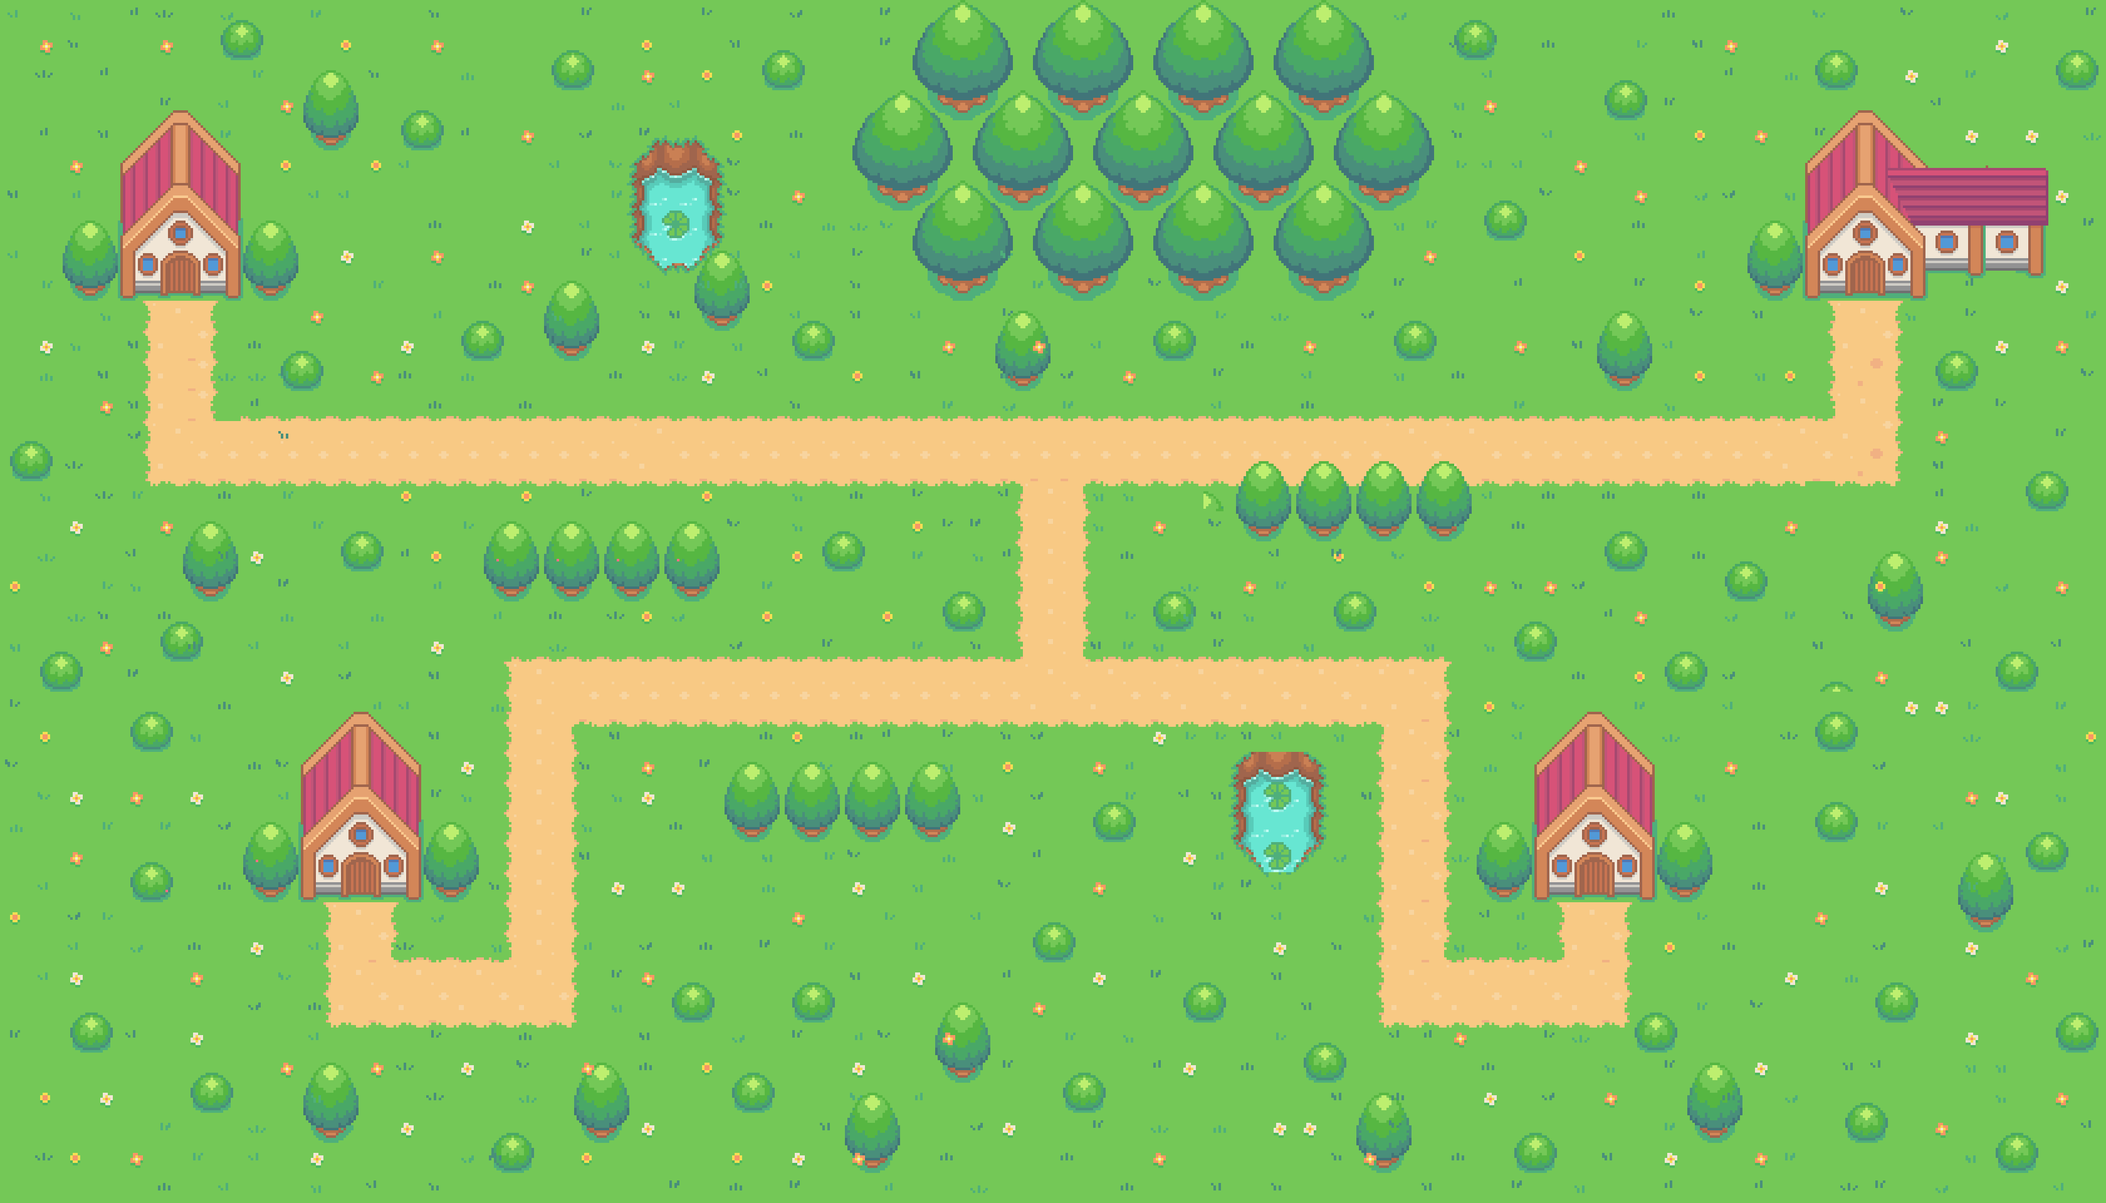
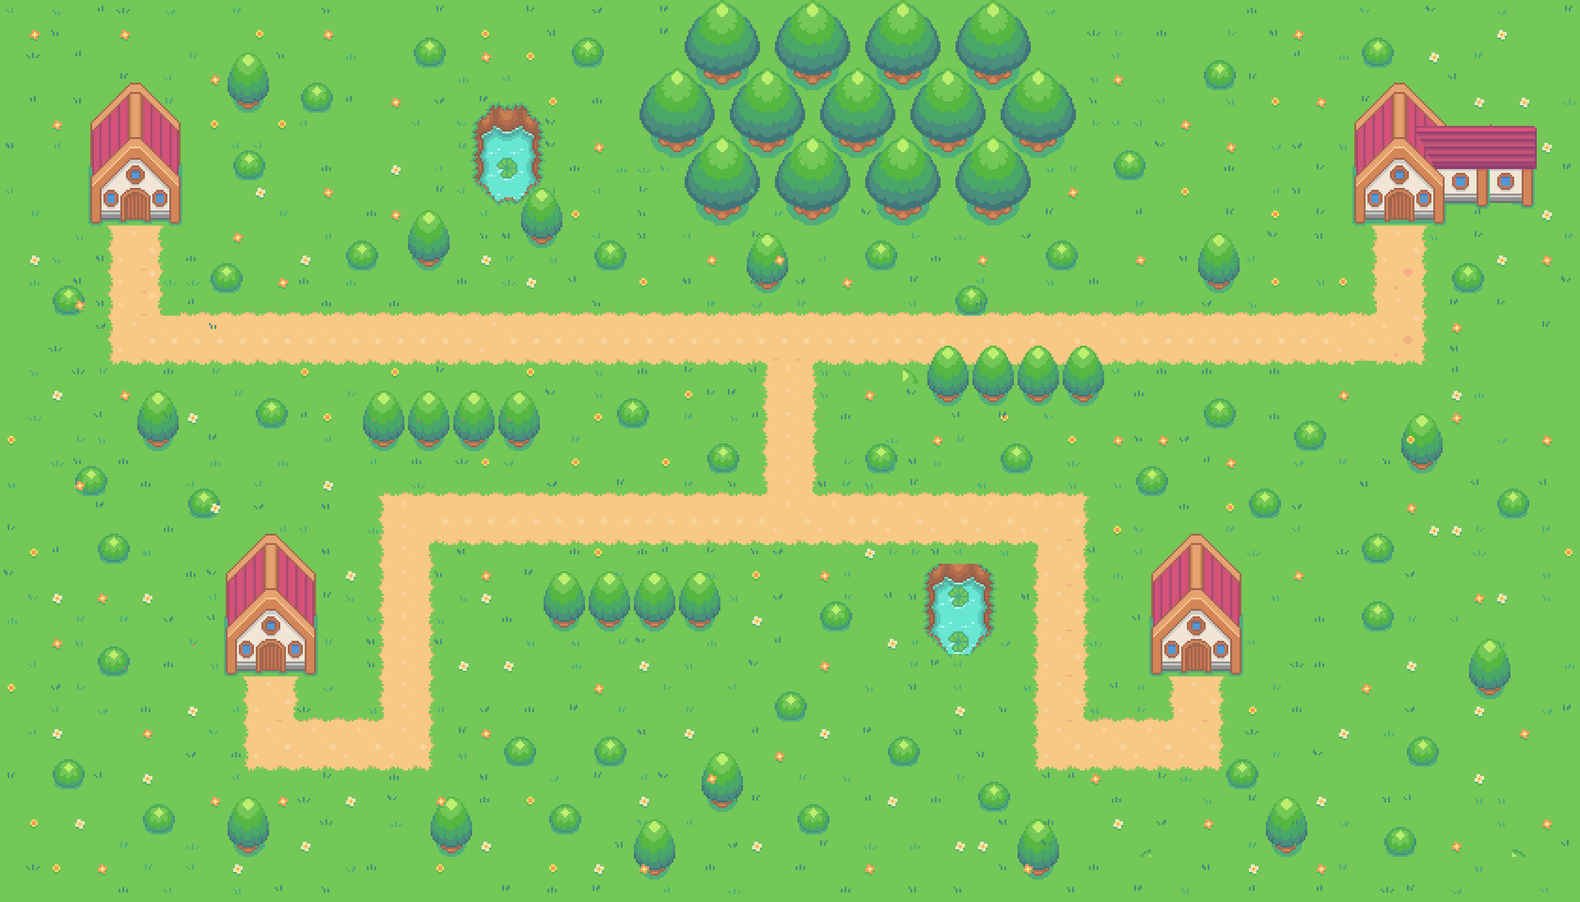
map fixes
fixed starting character position, zoomed out the map more and increased character speed and added some foreground physics

diff --git a/Data/collisions.js b/Data/collisions.js
@@ -1,40 +1,40 @@
-const collisions = [1025, 1025, 1025, 1025, 1025, 1025, 1025, 1025, 1025, 1025, 1025, 1025, 1025, 1025, 1025, 1025, 1025, 1025, 1025, 1025, 1025, 1025, 1025, 1025, 1025, 1025, 1025, 1025, 1025, 1025, 1025, 1025, 0, 0, 0, 0, 0, 0, 0, 0, 0, 0, 0, 0, 0, 1025, 1025, 1025, 1025, 1025, 1025, 1025, 1025, 1025, 1025, 1025, 1025, 1025, 1025, 1025, 1025, 1025, 1025, 1025, 1025, 1025, 1025, 1025, 1025, 1025,
-    1025, 0, 0, 0, 0, 0, 0, 0, 0, 0, 1025, 1025, 0, 0, 0, 0, 0, 0, 0, 0, 0, 0, 0, 0, 0, 0, 0, 0, 0, 1025, 0, 0, 0, 0, 0, 0, 0, 0, 0, 0, 0, 0, 0, 0, 0, 0, 1025, 0, 0, 0, 0, 0, 0, 0, 0, 0, 0, 0, 0, 0, 0, 0, 0, 0, 0, 0, 0, 0, 0, 1025,
-    1025, 0, 0, 0, 0, 1025, 1025, 0, 1025, 1025, 0, 0, 1025, 0, 0, 0, 0, 0, 0, 0, 0, 0, 0, 0, 0, 0, 0, 0, 0, 1025, 0, 0, 0, 0, 0, 0, 0, 0, 0, 0, 0, 0, 0, 0, 0, 0, 1025, 0, 0, 0, 0, 0, 0, 0, 0, 0, 0, 0, 0, 0, 0, 1025, 1025, 0, 0, 0, 0, 0, 0, 1025,
-    1025, 0, 0, 0, 1025, 0, 0, 1025, 0, 0, 0, 0, 1025, 0, 0, 0, 0, 0, 0, 0, 1025, 1025, 1025, 1025, 1025, 0, 0, 0, 1025, 0, 0, 0, 0, 0, 0, 0, 0, 0, 0, 0, 0, 0, 0, 0, 0, 0, 0, 1025, 0, 0, 0, 0, 0, 0, 0, 0, 0, 0, 0, 0, 1025, 0, 0, 1025, 0, 0, 0, 0, 0, 1025,
-    1025, 0, 0, 1025, 0, 0, 0, 0, 1025, 0, 0, 0, 1025, 0, 0, 0, 0, 0, 0, 1025, 0, 0, 0, 0, 0, 1025, 0, 1025, 0, 0, 0, 0, 0, 0, 0, 0, 0, 0, 0, 0, 0, 0, 0, 0, 0, 0, 0, 0, 1025, 0, 0, 0, 0, 0, 0, 0, 0, 0, 0, 1025, 0, 0, 0, 0, 1025, 1025, 1025, 1025, 0, 1025,
-    1025, 0, 0, 1025, 0, 0, 0, 0, 1025, 1025, 1025, 1025, 0, 0, 0, 0, 0, 0, 0, 1025, 0, 0, 0, 0, 0, 1025, 0, 1025, 0, 0, 0, 0, 0, 0, 0, 0, 0, 0, 0, 0, 0, 0, 0, 0, 0, 0, 0, 0, 1025, 0, 0, 0, 0, 0, 0, 0, 0, 0, 0, 1025, 0, 0, 0, 0, 0, 0, 0, 0, 1025, 1025,
-    1025, 0, 1025, 0, 0, 0, 0, 0, 0, 0, 1025, 0, 0, 0, 0, 0, 0, 0, 0, 1025, 0, 0, 0, 0, 0, 1025, 0, 1025, 0, 0, 0, 0, 0, 0, 0, 0, 0, 0, 0, 0, 0, 0, 0, 0, 0, 0, 0, 1025, 0, 0, 0, 0, 0, 0, 0, 0, 0, 0, 1025, 0, 0, 0, 0, 0, 0, 0, 0, 0, 0, 1025,
-    1025, 1025, 0, 0, 0, 0, 0, 0, 0, 0, 1025, 0, 0, 0, 0, 0, 0, 0, 0, 1025, 0, 0, 0, 0, 0, 1025, 0, 0, 1025, 0, 0, 0, 0, 0, 0, 0, 0, 0, 0, 0, 0, 0, 0, 0, 0, 0, 1025, 0, 0, 0, 0, 0, 0, 0, 0, 0, 0, 1025, 0, 0, 0, 0, 0, 0, 0, 0, 0, 0, 0, 1025,
-    1025, 1025, 0, 0, 0, 0, 0, 0, 0, 0, 1025, 0, 0, 0, 0, 0, 0, 0, 1025, 1025, 0, 0, 0, 0, 0, 1025, 0, 0, 0, 1025, 0, 0, 0, 0, 0, 0, 0, 0, 0, 0, 0, 0, 0, 0, 0, 0, 1025, 0, 0, 0, 0, 0, 0, 0, 0, 0, 0, 1025, 0, 0, 0, 0, 0, 0, 0, 0, 0, 0, 0, 1025,
-    1025, 1025, 0, 0, 0, 0, 0, 0, 0, 0, 1025, 0, 0, 0, 0, 0, 0, 1025, 0, 1025, 0, 0, 0, 0, 0, 1025, 0, 0, 0, 0, 1025, 0, 0, 0, 0, 0, 0, 0, 0, 0, 0, 0, 0, 0, 0, 1025, 0, 0, 0, 0, 0, 0, 0, 1025, 1025, 0, 0, 1025, 0, 0, 0, 0, 0, 0, 1025, 1025, 1025, 1025, 1025, 1025,
-    1025, 0, 1025, 1025, 0, 0, 0, 1025, 1025, 1025, 1025, 0, 0, 0, 0, 0, 0, 1025, 0, 0, 1025, 1025, 1025, 1025, 1025, 0, 0, 0, 0, 0, 1025, 1025, 1025, 1025, 1025, 1025, 1025, 1025, 1025, 1025, 1025, 1025, 1025, 1025, 1025, 0, 0, 0, 0, 0, 0, 0, 1025, 0, 0, 1025, 0, 0, 1025, 1025, 0, 0, 0, 1025, 0, 0, 0, 0, 0, 1025,
-    1025, 0, 0, 0, 0, 0, 0, 0, 0, 0, 0, 0, 0, 0, 0, 0, 0, 1025, 0, 0, 1025, 0, 0, 0, 0, 0, 0, 0, 0, 0, 0, 0, 1025, 0, 0, 1025, 0, 0, 0, 0, 0, 0, 0, 0, 0, 0, 0, 0, 0, 0, 0, 0, 1025, 0, 0, 1025, 0, 0, 0, 0, 0, 0, 0, 0, 0, 0, 0, 0, 0, 1025,
-    1025, 0, 0, 0, 0, 0, 0, 0, 0, 0, 0, 0, 0, 0, 0, 0, 0, 0, 1025, 1025, 0, 0, 0, 0, 0, 0, 0, 0, 0, 0, 0, 0, 1025, 0, 0, 1025, 0, 0, 0, 0, 0, 0, 0, 0, 0, 0, 0, 0, 0, 0, 0, 0, 1025, 0, 0, 1025, 0, 0, 0, 0, 0, 0, 0, 0, 0, 0, 0, 0, 0, 1025,
+const collisions = [1025, 1025, 1025, 1025, 1025, 1025, 1025, 1025, 1025, 1025, 1025, 1025, 1025, 1025, 1025, 1025, 1025, 1025, 1025, 1025, 1025, 1025, 1025, 1025, 1025, 1025, 1025, 1025, 1025, 1025, 1025, 0, 0, 0, 0, 0, 0, 0, 0, 0, 0, 0, 0, 0, 0, 1025, 1025, 1025, 1025, 1025, 1025, 1025, 1025, 1025, 1025, 1025, 1025, 1025, 1025, 1025, 1025, 1025, 1025, 1025, 1025, 1025, 1025, 1025, 1025, 1025,
+    1025, 0, 0, 0, 0, 0, 0, 0, 0, 0, 0, 0, 0, 0, 0, 0, 0, 0, 0, 0, 0, 0, 0, 0, 0, 0, 0, 0, 0, 0, 1025, 0, 0, 0, 0, 0, 0, 0, 0, 0, 0, 0, 0, 0, 0, 1025, 0, 0, 0, 0, 0, 0, 0, 0, 0, 0, 0, 0, 0, 0, 0, 0, 0, 0, 0, 0, 0, 0, 0, 1025,
+    1025, 0, 0, 0, 0, 0, 0, 0, 0, 0, 0, 0, 0, 0, 0, 0, 0, 0, 0, 0, 0, 0, 0, 0, 0, 0, 0, 0, 0, 0, 1025, 0, 0, 0, 0, 0, 0, 0, 0, 0, 0, 0, 0, 0, 0, 1025, 0, 0, 0, 0, 0, 0, 0, 0, 0, 0, 0, 0, 0, 0, 0, 0, 0, 0, 0, 0, 0, 0, 0, 1025,
+    1025, 0, 0, 0, 0, 0, 0, 0, 0, 0, 0, 0, 0, 0, 0, 0, 0, 0, 0, 0, 0, 0, 0, 0, 0, 0, 0, 0, 0, 1025, 0, 0, 0, 0, 0, 0, 0, 0, 0, 0, 0, 0, 0, 0, 0, 0, 1025, 0, 0, 0, 0, 0, 0, 0, 0, 0, 0, 0, 0, 0, 0, 0, 0, 0, 0, 0, 0, 0, 0, 1025,
+    1025, 0, 0, 0, 0, 0, 0, 0, 0, 0, 1025, 1025, 0, 0, 0, 0, 0, 0, 0, 0, 0, 0, 0, 0, 0, 0, 0, 0, 1025, 0, 0, 0, 0, 0, 0, 0, 0, 0, 0, 0, 0, 0, 0, 0, 0, 0, 0, 1025, 0, 0, 0, 0, 0, 0, 0, 0, 0, 0, 0, 0, 0, 0, 0, 0, 0, 0, 0, 0, 0, 1025,
+    1025, 0, 0, 0, 1025, 1025, 1025, 1025, 0, 0, 0, 0, 0, 0, 0, 0, 0, 0, 0, 0, 0, 1025, 1025, 1025, 0, 0, 0, 0, 1025, 0, 0, 0, 0, 0, 0, 0, 0, 0, 0, 0, 0, 0, 0, 0, 0, 0, 0, 1025, 0, 0, 0, 0, 0, 0, 0, 0, 0, 0, 0, 0, 1025, 1025, 1025, 1025, 1025, 1025, 1025, 1025, 0, 1025,
+    1025, 0, 0, 0, 1025, 0, 0, 1025, 0, 0, 0, 0, 0, 0, 0, 0, 0, 0, 0, 0, 0, 1025, 0, 1025, 0, 0, 0, 0, 1025, 0, 0, 0, 0, 0, 0, 0, 0, 0, 0, 0, 0, 0, 0, 0, 0, 0, 1025, 0, 0, 0, 0, 0, 0, 0, 0, 0, 0, 0, 0, 0, 1025, 0, 0, 0, 0, 0, 0, 1025, 0, 1025,
+    1025, 0, 0, 0, 1025, 0, 0, 1025, 0, 0, 0, 0, 0, 0, 0, 0, 0, 0, 0, 0, 0, 1025, 0, 1025, 0, 0, 0, 0, 0, 1025, 0, 0, 0, 0, 0, 0, 0, 0, 0, 0, 0, 0, 0, 0, 0, 1025, 0, 0, 0, 0, 0, 0, 0, 0, 0, 0, 0, 0, 0, 0, 1025, 0, 0, 0, 0, 0, 0, 1025, 0, 1025,
+    1025, 0, 0, 0, 1025, 0, 0, 1025, 0, 0, 0, 0, 0, 0, 0, 0, 0, 0, 0, 0, 0, 1025, 1025, 0, 0, 0, 0, 0, 0, 0, 1025, 0, 0, 1025, 1025, 0, 0, 1025, 1025, 0, 0, 1025, 1025, 0, 0, 1025, 0, 0, 0, 0, 0, 0, 0, 0, 0, 0, 0, 0, 0, 0, 1025, 0, 0, 0, 0, 0, 0, 1025, 0, 1025,
+    1025, 0, 0, 0, 1025, 1025, 1025, 1025, 0, 0, 0, 0, 0, 0, 0, 0, 0, 0, 0, 0, 0, 0, 0, 0, 0, 0, 0, 0, 0, 0, 0, 1025, 1025, 0, 0, 1025, 1025, 0, 0, 1025, 1025, 0, 0, 1025, 1025, 0, 0, 0, 0, 0, 0, 0, 0, 0, 0, 0, 0, 0, 0, 0, 1025, 1025, 1025, 1025, 1025, 1025, 1025, 1025, 0, 1025,
+    1025, 0, 0, 0, 0, 0, 0, 0, 0, 0, 0, 0, 0, 0, 0, 0, 0, 0, 0, 0, 0, 0, 0, 1025, 1025, 0, 0, 0, 0, 0, 0, 0, 0, 0, 0, 0, 0, 0, 0, 0, 0, 0, 0, 0, 0, 0, 0, 0, 0, 0, 0, 0, 0, 0, 0, 0, 0, 0, 0, 0, 0, 0, 0, 0, 0, 0, 0, 0, 0, 1025,
+    1025, 0, 0, 0, 0, 0, 0, 0, 0, 0, 0, 0, 0, 0, 0, 0, 0, 0, 1025, 1025, 0, 0, 0, 0, 0, 0, 0, 0, 0, 0, 0, 0, 0, 0, 0, 0, 0, 0, 0, 0, 0, 0, 0, 0, 0, 0, 0, 0, 0, 0, 0, 0, 0, 0, 0, 0, 0, 0, 0, 0, 0, 0, 0, 0, 0, 0, 0, 0, 0, 1025,
     1025, 0, 0, 0, 0, 0, 0, 0, 0, 0, 0, 0, 0, 0, 0, 0, 0, 0, 0, 0, 0, 0, 0, 0, 0, 0, 0, 0, 0, 0, 0, 0, 0, 1025, 1025, 0, 0, 0, 0, 0, 0, 0, 0, 0, 0, 0, 0, 0, 0, 0, 0, 0, 0, 1025, 1025, 0, 0, 0, 0, 0, 0, 0, 0, 0, 0, 0, 0, 0, 0, 1025,
     1025, 0, 0, 0, 0, 0, 0, 0, 0, 0, 0, 0, 0, 0, 0, 0, 0, 0, 0, 0, 0, 0, 0, 0, 0, 0, 0, 0, 0, 0, 0, 0, 0, 0, 0, 0, 0, 0, 0, 0, 0, 0, 0, 0, 0, 0, 0, 0, 0, 0, 0, 0, 0, 0, 0, 0, 0, 0, 0, 0, 0, 0, 0, 0, 0, 0, 0, 0, 0, 1025,
     1025, 0, 0, 0, 0, 0, 0, 0, 0, 0, 0, 0, 0, 0, 0, 0, 0, 0, 0, 0, 0, 0, 0, 0, 0, 0, 0, 0, 0, 0, 0, 0, 0, 0, 0, 0, 0, 0, 0, 0, 0, 0, 0, 0, 0, 0, 0, 0, 0, 0, 0, 0, 0, 0, 0, 0, 0, 0, 0, 0, 0, 0, 0, 0, 0, 0, 0, 0, 0, 1025,
-    1025, 0, 0, 0, 0, 0, 1025, 1025, 0, 0, 0, 0, 0, 0, 0, 0, 1025, 1025, 1025, 1025, 1025, 1025, 1025, 1025, 0, 0, 0, 0, 0, 0, 0, 0, 0, 0, 0, 0, 0, 0, 0, 0, 1025, 0, 0, 0, 0, 0, 0, 0, 0, 1025, 0, 0, 0, 0, 0, 0, 0, 0, 0, 0, 0, 0, 0, 0, 0, 0, 0, 0, 0, 1025,
-    1025, 0, 0, 0, 0, 1025, 0, 0, 1025, 0, 0, 0, 0, 0, 0, 1025, 0, 0, 0, 0, 0, 0, 0, 0, 1025, 0, 0, 0, 0, 0, 0, 0, 0, 0, 0, 0, 0, 0, 0, 0, 1025, 0, 0, 0, 0, 0, 0, 0, 0, 1025, 0, 0, 0, 0, 0, 0, 0, 0, 0, 0, 0, 0, 1025, 1025, 0, 0, 0, 0, 0, 1025,
-    1025, 0, 0, 0, 0, 1025, 0, 0, 1025, 0, 0, 0, 0, 0, 0, 1025, 0, 0, 0, 0, 0, 0, 0, 0, 1025, 0, 0, 0, 0, 0, 0, 0, 0, 0, 0, 0, 0, 0, 0, 0, 0, 1025, 1025, 1025, 1025, 1025, 1025, 1025, 1025, 0, 0, 0, 0, 0, 0, 0, 0, 0, 0, 0, 0, 1025, 0, 0, 1025, 0, 0, 0, 0, 1025,
-    1025, 0, 0, 0, 0, 1025, 0, 0, 1025, 0, 0, 0, 0, 0, 0, 1025, 0, 0, 0, 0, 0, 0, 0, 0, 1025, 0, 0, 0, 0, 0, 0, 0, 0, 0, 0, 0, 0, 0, 0, 0, 0, 0, 0, 0, 0, 0, 0, 0, 0, 0, 0, 0, 0, 0, 0, 0, 0, 0, 0, 0, 0, 1025, 0, 0, 1025, 0, 0, 0, 0, 1025,
-    1025, 0, 0, 0, 0, 0, 1025, 1025, 0, 0, 0, 0, 0, 0, 0, 0, 1025, 1025, 1025, 1025, 1025, 1025, 1025, 1025, 0, 0, 0, 0, 0, 0, 0, 0, 0, 0, 0, 0, 0, 0, 0, 0, 0, 0, 0, 0, 0, 0, 0, 0, 0, 0, 0, 0, 0, 0, 0, 0, 0, 0, 0, 0, 0, 1025, 0, 0, 1025, 0, 0, 0, 0, 1025,
+    1025, 0, 0, 0, 0, 0, 0, 0, 0, 0, 0, 0, 0, 0, 0, 0, 0, 0, 0, 0, 0, 0, 0, 0, 0, 0, 0, 0, 0, 0, 0, 0, 0, 0, 0, 0, 0, 0, 0, 0, 0, 0, 0, 0, 0, 0, 0, 0, 0, 0, 0, 0, 0, 0, 0, 0, 0, 0, 0, 0, 0, 0, 0, 0, 0, 0, 0, 0, 0, 1025,
+    1025, 0, 0, 0, 0, 0, 0, 0, 0, 0, 0, 0, 0, 0, 0, 0, 0, 0, 0, 0, 0, 0, 0, 0, 0, 0, 0, 0, 0, 0, 0, 0, 0, 0, 0, 0, 0, 0, 0, 0, 0, 1025, 1025, 1025, 1025, 1025, 1025, 1025, 1025, 0, 0, 0, 0, 0, 0, 0, 0, 0, 0, 0, 0, 0, 0, 0, 0, 0, 0, 0, 0, 1025,
+    1025, 0, 0, 0, 0, 0, 0, 0, 0, 0, 0, 0, 0, 0, 0, 0, 1025, 1025, 1025, 1025, 1025, 1025, 1025, 1025, 0, 0, 0, 0, 0, 0, 0, 0, 0, 0, 0, 0, 0, 0, 0, 0, 0, 1025, 1025, 1025, 1025, 1025, 1025, 1025, 1025, 0, 0, 0, 0, 0, 0, 0, 0, 0, 0, 0, 0, 0, 0, 0, 0, 0, 0, 0, 0, 1025,
+    1025, 0, 0, 0, 0, 0, 0, 0, 0, 0, 0, 0, 0, 0, 0, 0, 1025, 1025, 1025, 1025, 1025, 1025, 1025, 1025, 0, 0, 0, 0, 0, 0, 0, 0, 0, 0, 0, 0, 0, 0, 0, 0, 0, 0, 0, 0, 0, 0, 0, 0, 0, 0, 0, 0, 0, 0, 0, 0, 0, 0, 0, 0, 0, 0, 0, 0, 0, 0, 0, 0, 0, 1025,
+    1025, 0, 0, 0, 0, 0, 1025, 1025, 0, 0, 0, 0, 0, 0, 0, 0, 1025, 1025, 1025, 1025, 1025, 1025, 1025, 1025, 0, 0, 0, 0, 0, 0, 0, 0, 0, 0, 0, 0, 0, 0, 0, 0, 0, 0, 0, 0, 0, 0, 0, 0, 0, 0, 0, 0, 0, 0, 0, 0, 0, 0, 0, 0, 0, 0, 0, 0, 0, 0, 0, 0, 0, 1025,
     1025, 0, 0, 0, 0, 0, 0, 0, 0, 0, 0, 0, 0, 0, 0, 0, 0, 0, 0, 0, 0, 0, 0, 0, 0, 0, 0, 0, 0, 0, 0, 0, 0, 0, 0, 0, 0, 0, 0, 0, 0, 0, 0, 0, 0, 0, 0, 0, 0, 0, 0, 0, 0, 0, 0, 0, 0, 0, 0, 0, 0, 0, 1025, 1025, 0, 0, 0, 0, 0, 1025,
-    1025, 0, 0, 0, 0, 0, 0, 0, 0, 0, 0, 1025, 1025, 0, 0, 0, 0, 0, 0, 0, 0, 0, 0, 0, 0, 0, 0, 0, 0, 0, 0, 0, 0, 0, 0, 0, 0, 0, 0, 0, 0, 0, 0, 0, 0, 0, 0, 0, 0, 0, 0, 0, 1025, 1025, 1025, 0, 0, 0, 0, 0, 0, 0, 0, 0, 0, 0, 0, 0, 0, 1025,
-    1025, 0, 0, 0, 0, 0, 0, 0, 0, 0, 1025, 0, 0, 1025, 0, 0, 0, 0, 0, 0, 0, 0, 0, 0, 0, 0, 0, 0, 0, 0, 0, 0, 0, 0, 0, 0, 0, 0, 0, 0, 0, 0, 0, 0, 0, 0, 0, 0, 0, 0, 0, 1025, 0, 0, 0, 1025, 0, 0, 0, 0, 0, 0, 0, 0, 0, 0, 0, 0, 0, 1025,
-    1025, 0, 0, 0, 0, 0, 0, 0, 0, 1025, 0, 0, 0, 0, 1025, 0, 0, 0, 0, 0, 0, 0, 0, 0, 1025, 1025, 1025, 1025, 1025, 1025, 1025, 1025, 0, 0, 0, 0, 0, 0, 0, 0, 1025, 1025, 1025, 1025, 1025, 0, 0, 0, 0, 0, 1025, 0, 0, 0, 0, 0, 1025, 0, 0, 0, 0, 0, 0, 0, 0, 0, 0, 0, 0, 1025,
-    1025, 0, 0, 0, 0, 0, 0, 0, 1025, 0, 0, 0, 0, 0, 1025, 0, 0, 0, 0, 0, 0, 0, 0, 1025, 0, 0, 0, 0, 0, 0, 0, 0, 1025, 0, 0, 0, 0, 0, 0, 1025, 0, 0, 0, 0, 0, 1025, 0, 0, 0, 0, 1025, 0, 0, 0, 0, 0, 1025, 0, 0, 0, 0, 0, 0, 0, 0, 0, 0, 0, 0, 1025,
-    1025, 0, 0, 0, 0, 0, 0, 1025, 0, 0, 0, 0, 0, 0, 1025, 1025, 0, 0, 0, 0, 0, 0, 0, 1025, 0, 0, 0, 0, 0, 0, 0, 0, 1025, 0, 0, 0, 0, 0, 0, 1025, 0, 0, 0, 0, 0, 1025, 0, 0, 0, 1025, 1025, 0, 0, 0, 0, 0, 1025, 0, 0, 0, 0, 0, 0, 0, 0, 0, 0, 0, 0, 1025,
-    1025, 0, 0, 0, 0, 0, 0, 1025, 0, 0, 0, 0, 0, 0, 0, 0, 1025, 0, 0, 0, 0, 0, 0, 1025, 0, 0, 0, 0, 0, 0, 0, 0, 1025, 0, 0, 0, 0, 0, 0, 1025, 0, 0, 0, 0, 0, 1025, 0, 0, 1025, 0, 0, 0, 0, 0, 0, 0, 0, 1025, 0, 0, 0, 0, 0, 0, 0, 1025, 1025, 0, 0, 1025,
-    1025, 0, 0, 0, 0, 0, 0, 1025, 0, 0, 0, 0, 0, 0, 0, 0, 1025, 0, 0, 0, 0, 0, 0, 0, 1025, 1025, 1025, 1025, 1025, 1025, 1025, 1025, 0, 0, 0, 0, 0, 0, 0, 1025, 0, 0, 0, 0, 0, 1025, 0, 0, 1025, 0, 0, 0, 0, 0, 0, 0, 0, 1025, 0, 0, 0, 0, 0, 0, 1025, 0, 0, 1025, 0, 1025,
-    1025, 0, 0, 0, 0, 0, 0, 1025, 0, 0, 0, 0, 0, 0, 0, 0, 1025, 0, 0, 0, 0, 0, 0, 0, 0, 0, 0, 0, 0, 0, 0, 0, 0, 0, 0, 0, 0, 0, 0, 0, 1025, 1025, 1025, 1025, 1025, 0, 0, 0, 1025, 0, 0, 0, 0, 0, 0, 0, 0, 1025, 0, 0, 0, 0, 0, 0, 1025, 0, 0, 1025, 0, 1025,
-    1025, 0, 0, 0, 0, 0, 0, 0, 1025, 1025, 0, 0, 0, 1025, 1025, 1025, 0, 0, 0, 0, 0, 0, 0, 0, 0, 0, 0, 0, 0, 0, 0, 0, 0, 0, 0, 0, 0, 0, 0, 0, 0, 0, 0, 0, 0, 0, 0, 0, 0, 1025, 1025, 0, 0, 0, 0, 1025, 1025, 0, 0, 0, 0, 0, 0, 0, 1025, 0, 0, 1025, 0, 1025,
+    1025, 0, 0, 0, 0, 0, 0, 0, 0, 0, 0, 0, 0, 0, 0, 0, 0, 0, 0, 0, 0, 0, 0, 0, 0, 0, 0, 0, 0, 0, 0, 0, 0, 0, 0, 0, 0, 0, 0, 0, 0, 0, 0, 0, 0, 0, 0, 0, 0, 0, 0, 0, 0, 0, 0, 0, 0, 0, 0, 0, 0, 0, 0, 0, 0, 0, 0, 0, 0, 1025,
+    1025, 0, 0, 0, 0, 0, 0, 0, 0, 0, 0, 0, 0, 0, 0, 0, 0, 0, 0, 0, 0, 0, 0, 0, 0, 0, 0, 0, 0, 0, 0, 0, 0, 0, 0, 0, 0, 0, 0, 0, 0, 0, 0, 0, 0, 0, 0, 0, 0, 0, 0, 0, 0, 0, 0, 0, 0, 0, 0, 0, 0, 0, 0, 0, 0, 0, 0, 0, 0, 1025,
+    1025, 0, 0, 0, 0, 0, 0, 0, 0, 0, 0, 0, 0, 0, 0, 0, 0, 0, 0, 0, 0, 0, 0, 0, 0, 0, 0, 0, 0, 0, 0, 0, 0, 0, 0, 0, 0, 0, 0, 0, 0, 0, 0, 0, 0, 0, 0, 0, 0, 0, 0, 0, 0, 0, 0, 0, 0, 0, 0, 0, 0, 0, 0, 0, 0, 0, 0, 0, 0, 1025,
+    1025, 0, 0, 0, 0, 0, 0, 0, 0, 0, 0, 0, 0, 0, 0, 0, 0, 0, 0, 0, 0, 0, 0, 0, 0, 0, 0, 0, 0, 0, 0, 0, 0, 0, 0, 0, 0, 0, 0, 0, 0, 0, 0, 0, 0, 0, 0, 0, 0, 0, 0, 0, 0, 0, 0, 0, 0, 0, 0, 0, 0, 0, 0, 0, 0, 0, 0, 0, 0, 1025,
+    1025, 0, 0, 0, 0, 0, 0, 0, 0, 0, 1025, 1025, 1025, 1025, 0, 0, 0, 0, 0, 0, 0, 0, 0, 0, 1025, 1025, 1025, 1025, 1025, 1025, 1025, 1025, 0, 0, 0, 0, 0, 0, 0, 0, 0, 1025, 1025, 1025, 0, 0, 0, 0, 0, 0, 0, 1025, 1025, 1025, 1025, 0, 0, 0, 0, 0, 0, 0, 0, 0, 0, 0, 0, 0, 0, 1025,
+    1025, 0, 0, 0, 0, 0, 0, 0, 0, 0, 1025, 0, 0, 1025, 0, 0, 0, 0, 0, 0, 0, 0, 0, 0, 1025, 1025, 1025, 1025, 1025, 1025, 1025, 1025, 0, 0, 0, 0, 0, 0, 0, 0, 0, 1025, 0, 1025, 0, 0, 0, 0, 0, 0, 0, 1025, 0, 0, 1025, 0, 0, 0, 0, 0, 0, 0, 0, 0, 0, 0, 0, 0, 0, 1025,
+    1025, 0, 0, 0, 0, 0, 0, 0, 0, 0, 1025, 0, 0, 1025, 0, 0, 0, 0, 0, 0, 0, 0, 0, 0, 1025, 1025, 1025, 1025, 1025, 1025, 1025, 1025, 0, 0, 0, 0, 0, 0, 0, 0, 0, 1025, 0, 1025, 0, 0, 0, 0, 0, 0, 0, 1025, 0, 0, 1025, 0, 0, 0, 0, 0, 0, 0, 0, 0, 0, 0, 0, 0, 0, 1025,
+    1025, 0, 0, 0, 0, 0, 0, 0, 0, 0, 1025, 0, 0, 1025, 0, 0, 0, 0, 0, 0, 0, 0, 0, 0, 0, 0, 0, 0, 0, 0, 0, 0, 0, 0, 0, 0, 0, 0, 0, 0, 0, 1025, 1025, 1025, 0, 0, 0, 0, 0, 0, 0, 1025, 0, 0, 1025, 0, 0, 0, 0, 0, 0, 0, 0, 0, 0, 0, 0, 0, 0, 1025,
+    1025, 0, 0, 0, 0, 0, 0, 0, 0, 0, 1025, 1025, 1025, 1025, 0, 0, 0, 0, 0, 0, 0, 0, 0, 0, 0, 0, 0, 0, 0, 0, 0, 0, 0, 0, 0, 0, 0, 0, 0, 0, 0, 0, 0, 0, 0, 0, 0, 0, 0, 0, 0, 1025, 1025, 1025, 1025, 0, 0, 0, 0, 0, 0, 0, 0, 0, 0, 0, 0, 0, 0, 1025,
     1025, 0, 0, 0, 0, 0, 0, 0, 0, 0, 0, 0, 0, 0, 0, 0, 0, 0, 0, 0, 0, 0, 0, 0, 0, 0, 0, 0, 0, 0, 0, 0, 0, 0, 0, 0, 0, 0, 0, 0, 0, 0, 0, 0, 0, 0, 0, 0, 0, 0, 0, 0, 0, 0, 0, 0, 0, 0, 0, 0, 0, 0, 0, 0, 0, 1025, 1025, 0, 0, 1025,
+    1025, 0, 0, 0, 0, 0, 0, 0, 0, 0, 0, 0, 0, 0, 0, 0, 0, 0, 0, 0, 0, 0, 0, 0, 0, 0, 0, 0, 0, 0, 0, 0, 0, 0, 0, 0, 0, 0, 0, 0, 0, 0, 0, 0, 0, 0, 0, 0, 0, 0, 0, 0, 0, 0, 0, 0, 0, 0, 0, 0, 0, 0, 0, 0, 0, 0, 0, 0, 0, 1025,
+    1025, 0, 0, 0, 0, 0, 0, 0, 0, 0, 0, 0, 0, 0, 0, 0, 0, 0, 0, 0, 0, 0, 0, 0, 0, 0, 0, 0, 0, 0, 0, 0, 0, 0, 0, 0, 0, 0, 0, 0, 0, 0, 0, 0, 0, 0, 0, 0, 0, 0, 0, 0, 0, 0, 0, 0, 0, 0, 0, 0, 0, 0, 0, 0, 0, 0, 0, 0, 0, 1025,
+    1025, 0, 0, 0, 0, 0, 0, 0, 0, 0, 0, 0, 0, 0, 0, 0, 0, 0, 0, 0, 0, 0, 0, 0, 0, 0, 0, 0, 0, 0, 0, 0, 0, 0, 0, 0, 0, 0, 0, 0, 0, 0, 0, 0, 0, 0, 0, 0, 0, 0, 0, 0, 0, 0, 0, 0, 0, 0, 0, 0, 0, 0, 0, 0, 0, 0, 0, 0, 0, 1025,
+    1025, 0, 0, 0, 0, 0, 0, 0, 0, 0, 0, 0, 0, 0, 0, 0, 0, 0, 0, 0, 0, 0, 0, 0, 0, 0, 0, 0, 0, 0, 0, 0, 0, 0, 0, 0, 0, 0, 0, 0, 0, 0, 0, 0, 0, 0, 0, 0, 0, 0, 0, 0, 0, 0, 0, 0, 0, 0, 0, 0, 0, 0, 0, 0, 0, 0, 0, 0, 0, 1025,
     1025, 0, 0, 0, 0, 0, 0, 0, 0, 0, 0, 0, 0, 0, 0, 0, 0, 0, 0, 0, 0, 0, 0, 0, 0, 0, 0, 0, 0, 0, 0, 1025, 1025, 0, 0, 0, 0, 0, 0, 0, 0, 0, 0, 0, 0, 0, 0, 0, 0, 0, 0, 0, 0, 0, 0, 0, 0, 0, 0, 0, 0, 0, 0, 0, 0, 0, 0, 0, 0, 1025,
-    1025, 0, 0, 0, 0, 0, 0, 0, 0, 0, 0, 0, 0, 0, 0, 0, 0, 0, 0, 0, 0, 0, 0, 0, 0, 0, 0, 0, 0, 0, 1025, 0, 0, 1025, 0, 0, 0, 0, 0, 0, 0, 0, 0, 0, 0, 0, 0, 0, 0, 0, 0, 0, 0, 0, 0, 0, 0, 0, 0, 0, 0, 0, 0, 0, 0, 0, 0, 0, 0, 1025,
-    1025, 0, 0, 0, 0, 0, 0, 0, 0, 0, 1025, 1025, 0, 0, 0, 0, 0, 0, 0, 1025, 1025, 0, 0, 0, 0, 0, 0, 0, 0, 0, 1025, 0, 0, 1025, 0, 0, 0, 0, 0, 0, 0, 0, 0, 0, 0, 0, 0, 0, 0, 0, 0, 0, 0, 0, 0, 0, 1025, 1025, 0, 0, 0, 0, 0, 0, 0, 0, 0, 0, 0, 1025,
-    1025, 0, 0, 0, 0, 0, 0, 0, 0, 1025, 0, 0, 1025, 0, 0, 0, 0, 0, 1025, 0, 0, 1025, 0, 0, 0, 0, 0, 0, 1025, 1025, 1025, 0, 0, 1025, 0, 0, 0, 0, 0, 0, 0, 0, 0, 0, 0, 1025, 1025, 0, 0, 0, 0, 0, 0, 0, 0, 1025, 0, 0, 1025, 0, 0, 0, 0, 0, 0, 0, 0, 0, 0, 1025,
-    1025, 0, 0, 0, 0, 0, 0, 0, 0, 1025, 0, 0, 1025, 0, 0, 0, 0, 0, 1025, 0, 0, 1025, 0, 0, 0, 0, 0, 1025, 0, 0, 0, 1025, 1025, 0, 0, 0, 0, 0, 0, 0, 0, 0, 0, 0, 1025, 0, 0, 1025, 0, 0, 0, 0, 0, 0, 0, 1025, 0, 0, 1025, 0, 0, 0, 0, 0, 0, 0, 0, 0, 0, 1025,
-    1025, 0, 0, 0, 0, 0, 0, 0, 0, 1025, 0, 0, 1025, 0, 0, 0, 0, 0, 1025, 0, 0, 1025, 0, 0, 0, 0, 0, 1025, 0, 0, 1025, 0, 0, 0, 0, 0, 0, 0, 0, 0, 0, 0, 0, 0, 1025, 0, 0, 1025, 0, 0, 0, 0, 0, 0, 0, 1025, 0, 0, 1025, 0, 0, 0, 0, 0, 0, 0, 0, 0, 0, 1025,
-    1025, 0, 0, 0, 0, 0, 0, 0, 0, 0, 1025, 1025, 0, 0, 0, 0, 0, 0, 0, 1025, 1025, 0, 0, 0, 0, 0, 0, 1025, 0, 0, 1025, 0, 0, 0, 0, 0, 0, 0, 0, 0, 0, 0, 0, 0, 1025, 0, 0, 1025, 0, 0, 0, 0, 0, 0, 0, 0, 1025, 1025, 0, 0, 0, 0, 0, 0, 0, 0, 0, 0, 0, 1025,
+    1025, 0, 0, 0, 0, 0, 0, 0, 0, 0, 0, 0, 0, 0, 0, 0, 0, 0, 0, 0, 0, 0, 0, 0, 0, 0, 0, 0, 0, 0, 0, 0, 0, 0, 0, 0, 0, 0, 0, 0, 0, 0, 0, 0, 0, 0, 0, 0, 0, 0, 0, 0, 0, 0, 0, 0, 0, 0, 0, 0, 0, 0, 0, 0, 0, 0, 0, 0, 0, 1025,
+    1025, 0, 0, 0, 0, 0, 0, 0, 0, 0, 1025, 1025, 0, 0, 0, 0, 0, 0, 0, 1025, 1025, 0, 0, 0, 0, 0, 0, 0, 0, 0, 0, 0, 0, 0, 0, 0, 0, 0, 0, 0, 0, 0, 0, 0, 0, 0, 0, 0, 0, 0, 0, 0, 0, 0, 0, 0, 1025, 1025, 0, 0, 0, 0, 0, 0, 0, 0, 0, 0, 0, 1025,
+    1025, 0, 0, 0, 0, 0, 0, 0, 0, 0, 0, 0, 0, 0, 0, 0, 0, 0, 0, 0, 0, 0, 0, 0, 0, 0, 0, 0, 1025, 1025, 0, 0, 0, 0, 0, 0, 0, 0, 0, 0, 0, 0, 0, 0, 0, 1025, 1025, 0, 0, 0, 0, 0, 0, 0, 0, 0, 0, 0, 0, 0, 0, 0, 0, 0, 0, 0, 0, 0, 0, 1025,
     1025, 1025, 1025, 1025, 1025, 1025, 1025, 1025, 1025, 1025, 1025, 1025, 1025, 1025, 1025, 1025, 1025, 1025, 1025, 1025, 1025, 1025, 1025, 1025, 1025, 1025, 1025, 1025, 1025, 1025, 1025, 1025, 1025, 1025, 1025, 1025, 1025, 1025, 1025, 1025, 1025, 1025, 1025, 1025, 1025, 1025, 1025, 1025, 1025, 1025, 1025, 1025, 1025, 1025, 1025, 1025, 1025, 1025, 1025, 1025, 1025, 1025, 1025, 1025, 1025, 1025, 1025, 1025, 1025, 1025]

diff --git a/index.js b/index.js
@@ -1,8 +1,8 @@
 const canvas = document.querySelector('canvas')
 const c = canvas.getContext('2d')
 
-canvas.width = 1024
-canvas.height = 576
+canvas.width = 2520
+canvas.height = 670
 
 const collisionsMap = []
 for (let i = 0; i < collisions.length; i += 70) {
@@ -36,6 +36,9 @@ collisionsMap.forEach((row, i) => {
 const image = new Image()  //const image = new Image('/Img/map.png') not recognised by api
 image.src = '/Img/map.png'
 
+const foregroundImage = new Image()  
+foregroundImage.src = '/Img/foregroundImages.png'
+
 //-----------------------------------------------Player----------------------------------------------
 
 const playerDownImage = new Image()
@@ -53,7 +56,9 @@ playerRightImage.src = '/Img/right_walk_char.png'
 //image.onload = () => {  // without this the image is being called before HTML is loaded
  
 //-----------------------------------------------Animation----------------------------------------------
-
+canvas.addEventListener('click', (event) => {
+    console.log(`X: ${event.clientX}, Y: ${event.clientY}`);
+});
 
 //  //  Actual image that will be seen
 //  265 - (this.image.width / 4)/16 , 
@@ -61,8 +66,8 @@ playerRightImage.src = '/Img/right_walk_char.png'
 
 const player = new Sprite({
     position: {
-        x: 265 - (192 / 4)/16,
-        y: 250 - 68 / 2     
+        x: 2200 - (192 / 4)/16,
+        y: 200 - 68 / 2     
     },
     
     image: playerDownImage,
@@ -83,7 +88,15 @@ const background = new Sprite({
         x: offset.x,
         y: offset.y
     },
-    image: image    //  this will call image in sprint all the wal down to make a loop
+    image: image    //  this will call image in sprint all the way down to make a loop
+})
+
+const foreground = new Sprite({
+    position: {
+        x: offset.x,
+        y: offset.y
+    },
+    image: foregroundImage    //  this will call foregroundImage in sprint all the wau down to make a loop
 })
 
 const keys = {
@@ -102,7 +115,7 @@ const keys = {
 }
 
 
-const movables = [background, ...boundaries]
+const movables = [background, ...boundaries, foreground]
 //  creating a loop for the animation
 
 function rectangularCollision({rectangle1, rectangle2}) {
@@ -124,6 +137,7 @@ function animate() {
        boundary.draw()
     })
     player.draw()
+    foreground.draw()
 
     let moving = true
     player.moving = false
@@ -149,7 +163,7 @@ function animate() {
         }
         if (moving)
             //player.moving = false
-        movables.forEach ((movable) => {movable.position.y += 3})}
+        movables.forEach ((movable) => {movable.position.y += 4})}
         
         else if (keys.a.pressed && lastKey === 'a') {
             player.moving = true
@@ -174,7 +188,7 @@ function animate() {
             }
         if (moving)
             //player.moving = false
-        movables.forEach ((movable) => {movable.position.x += 3})}
+        movables.forEach ((movable) => {movable.position.x += 6})}
         
         else if (keys.s.pressed && lastKey === 's') {
             player.moving = true
@@ -199,7 +213,7 @@ function animate() {
             }
         if (moving)
             //player.moving = false
-        movables.forEach ((movable) => {movable.position.y -= 3})}
+        movables.forEach ((movable) => {movable.position.y -= 4})}
         
         else if (keys.d.pressed && lastKey === 'd') {
             player.moving = true
@@ -223,7 +237,7 @@ function animate() {
                   }
             }
         if (moving)
-        movables.forEach ((movable) => {movable.position.x -= 3})}
+        movables.forEach ((movable) => {movable.position.x -= 6})}
 
 }
 animate()

diff --git a/classes.js b/classes.js
@@ -46,12 +46,12 @@ class Sprite{
 }
 
 class Boundary {
-    static width = 48
-    static height = 48 
+    static width = 36
+    static height = 36 
     constructor({position}){
         this.position = position
-        this.width = 48
-        this.height = 48
+        this.width = 36
+        this.height = 36
     }
 
     draw(){
